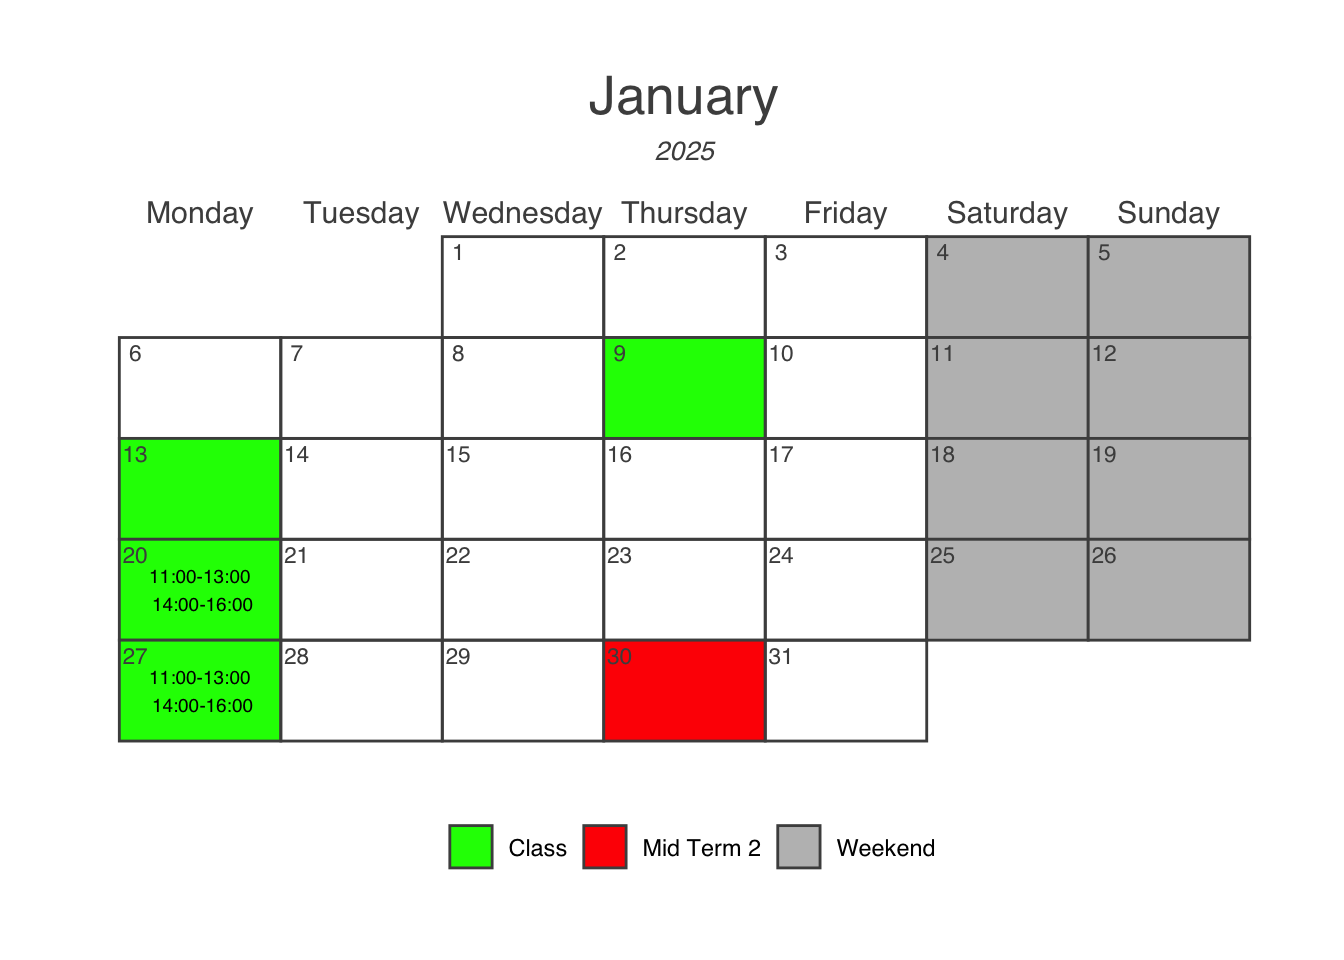
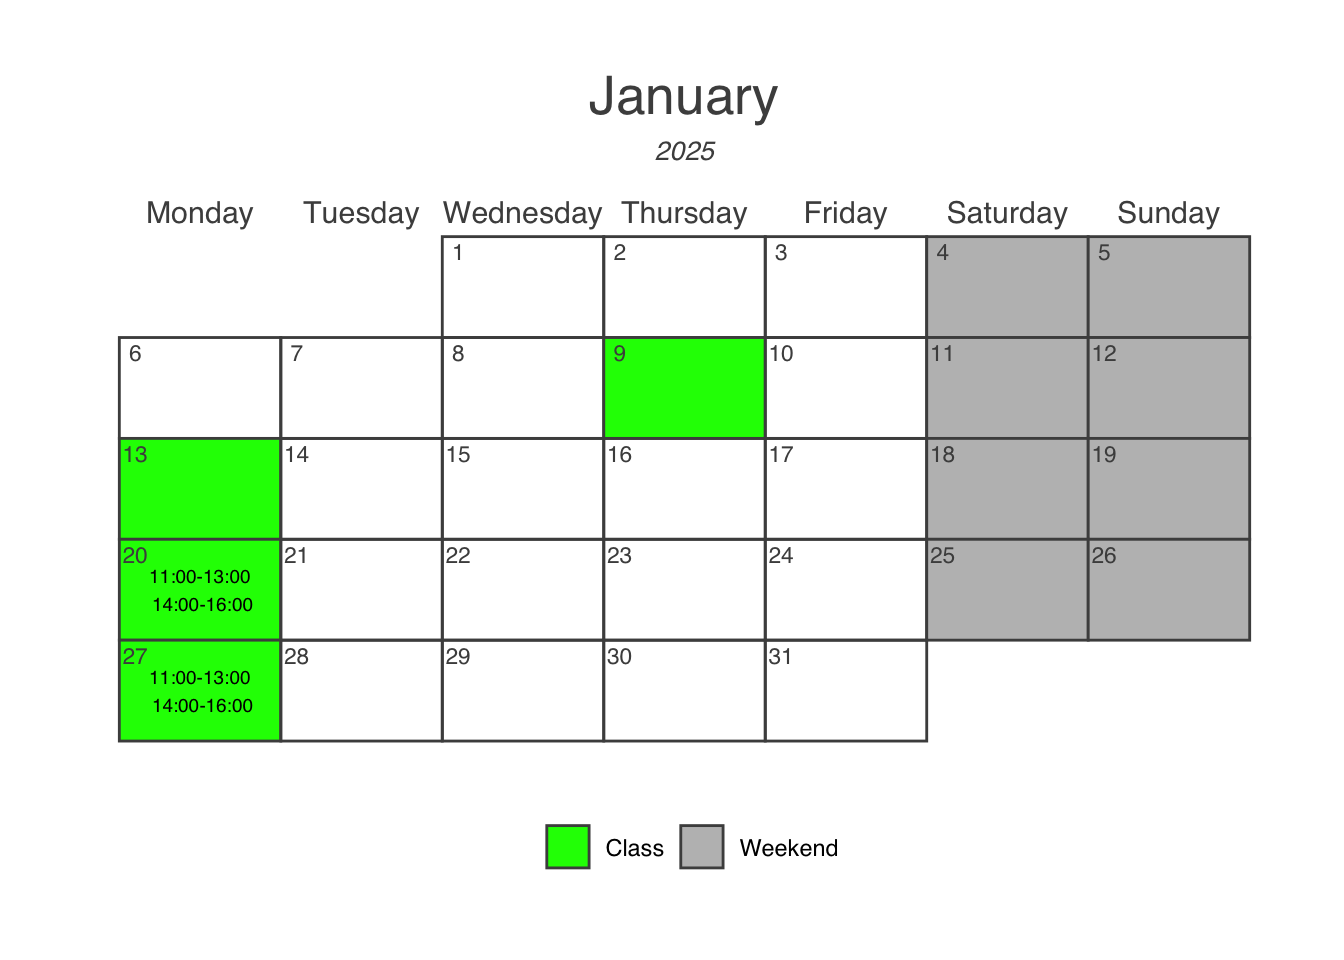
Update mid term 2 exam date

Changed region(s): [[0.4375, 0.6562, 0.5938, 0.7812], [0.3125, 0.8438, 0.6875, 0.9062]]

diff --git a/docs/contact.html b/docs/contact.html
@@ -341,8 +341,8 @@ window.Quarto = {
 <p>Here you can find my contact information. My office is number 14, located on the first floor of the main building at “Laboratori di Ecologia Sperimentale ed Acquacoltura” in Via Cracovia 1, 00133 Rome, Italy.</p>
 <div class="cell">
 <div class="cell-output-display">
-<div class="leaflet html-widget html-fill-item" id="htmlwidget-9bd763931d0640795bc1" style="width:100%;height:464px;"></div>
-<script type="application/json" data-for="htmlwidget-9bd763931d0640795bc1">{"x":{"options":{"crs":{"crsClass":"L.CRS.EPSG3857","code":null,"proj4def":null,"projectedBounds":null,"options":{}}},"calls":[{"method":"addTiles","args":["https://{s}.tile.openstreetmap.org/{z}/{x}/{y}.png",null,null,{"minZoom":0,"maxZoom":18,"tileSize":256,"subdomains":"abc","errorTileUrl":"","tms":false,"noWrap":false,"zoomOffset":0,"zoomReverse":false,"opacity":1,"zIndex":1,"detectRetina":false,"attribution":"&copy; <a href=\"https://openstreetmap.org/copyright/\">OpenStreetMap<\/a>,  <a href=\"https://opendatacommons.org/licenses/odbl/\">ODbL<\/a>"}]},{"method":"addMarkers","args":[41.85021,12.6298,null,null,null,{"interactive":true,"draggable":false,"keyboard":true,"title":"","alt":"","zIndexOffset":0,"opacity":1,"riseOnHover":false,"riseOffset":250},"Office 14 is located on the first floor of this building",null,null,null,null,{"interactive":false,"permanent":false,"direction":"auto","opacity":1,"offset":[0,0],"textsize":"10px","textOnly":false,"className":"","sticky":true},null]}],"limits":{"lat":[41.85021,41.85021],"lng":[12.6298,12.6298]}},"evals":[],"jsHooks":[]}</script>
+<div class="leaflet html-widget html-fill-item" id="htmlwidget-fbf63ded65a0c679d0f6" style="width:100%;height:464px;"></div>
+<script type="application/json" data-for="htmlwidget-fbf63ded65a0c679d0f6">{"x":{"options":{"crs":{"crsClass":"L.CRS.EPSG3857","code":null,"proj4def":null,"projectedBounds":null,"options":{}}},"calls":[{"method":"addTiles","args":["https://{s}.tile.openstreetmap.org/{z}/{x}/{y}.png",null,null,{"minZoom":0,"maxZoom":18,"tileSize":256,"subdomains":"abc","errorTileUrl":"","tms":false,"noWrap":false,"zoomOffset":0,"zoomReverse":false,"opacity":1,"zIndex":1,"detectRetina":false,"attribution":"&copy; <a href=\"https://openstreetmap.org/copyright/\">OpenStreetMap<\/a>,  <a href=\"https://opendatacommons.org/licenses/odbl/\">ODbL<\/a>"}]},{"method":"addMarkers","args":[41.85021,12.6298,null,null,null,{"interactive":true,"draggable":false,"keyboard":true,"title":"","alt":"","zIndexOffset":0,"opacity":1,"riseOnHover":false,"riseOffset":250},"Office 14 is located on the first floor of this building",null,null,null,null,{"interactive":false,"permanent":false,"direction":"auto","opacity":1,"offset":[0,0],"textsize":"10px","textOnly":false,"className":"","sticky":true},null]}],"limits":{"lat":[41.85021,41.85021],"lng":[12.6298,12.6298]}},"evals":[],"jsHooks":[]}</script>
 </div>
 </div>
 <p><br></p>

diff --git a/docs/calendar.html b/docs/calendar.html
@@ -322,7 +322,7 @@ window.Quarto = {
     <div>
     <div class="quarto-title-meta-heading">Modified</div>
     <div class="quarto-title-meta-contents">
-      <p class="date-modified">January 13, 2025</p>
+      <p class="date-modified">January 27, 2025</p>
     </div>
   </div>
     
@@ -338,8 +338,8 @@ window.Quarto = {
 <table class="caption-top table table-sm table-striped small">
 <caption>The course will begin on Monday, November 4, 2024. The tentative schedule for mid-terms and final exams will be updated throughout the course.</caption>
 <colgroup>
-<col style="width: 19%">
-<col style="width: 28%">
+<col style="width: 20%">
+<col style="width: 26%">
 <col style="width: 26%">
 <col style="width: 26%">
 </colgroup>
@@ -366,7 +366,7 @@ window.Quarto = {
 </tr>
 <tr class="odd">
 <td style="text-align: left;">Mid Term Exam - 2</td>
-<td style="text-align: left;">Thursday, January 30 2025</td>
+<td style="text-align: left;">Monday, February 3 2025</td>
 <td style="text-align: left;">14:00-16:00</td>
 <td style="text-align: left;">Aula centro studi pesca</td>
 </tr>
@@ -491,6 +491,15 @@ Read carefully!
 <div>
 <figure class="figure">
 <p><img src="calendar_files/figure-html/unnamed-chunk-4-1.png" class="img-fluid figure-img" style="width:100.0%"></p>
+</figure>
+</div>
+</div>
+</div>
+<div class="cell">
+<div class="cell-output-display">
+<div>
+<figure class="figure">
+<p><img src="calendar_files/figure-html/unnamed-chunk-5-1.png" class="img-fluid figure-img" style="width:100.0%"></p>
 </figure>
 </div>
 </div>
